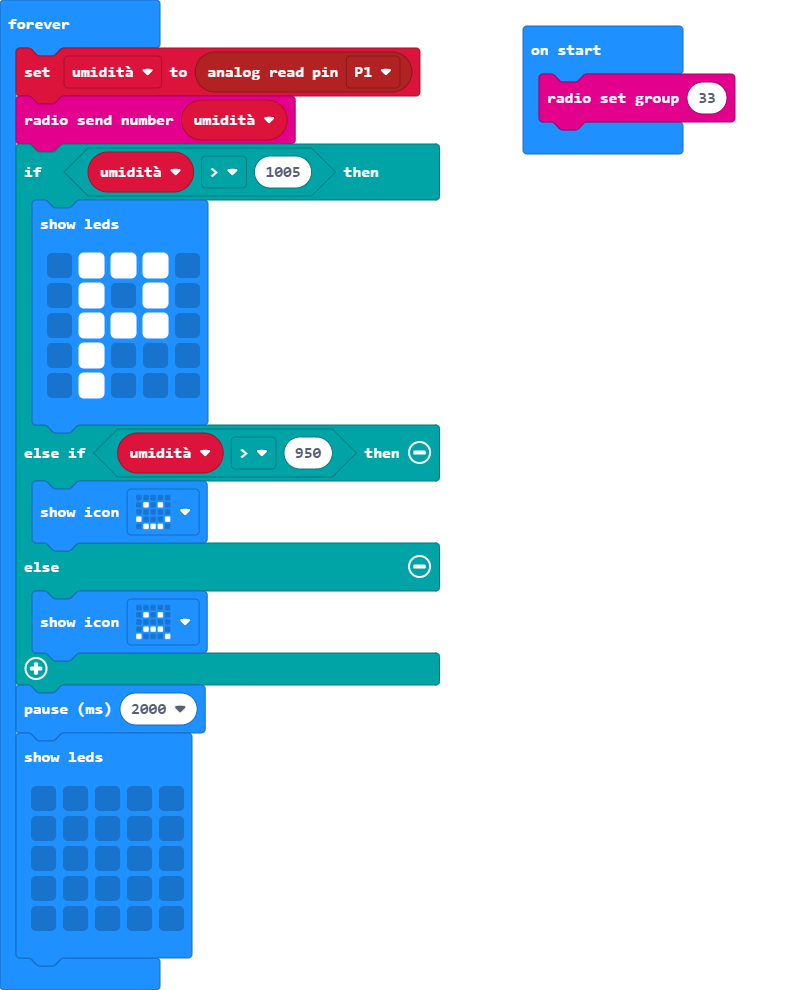
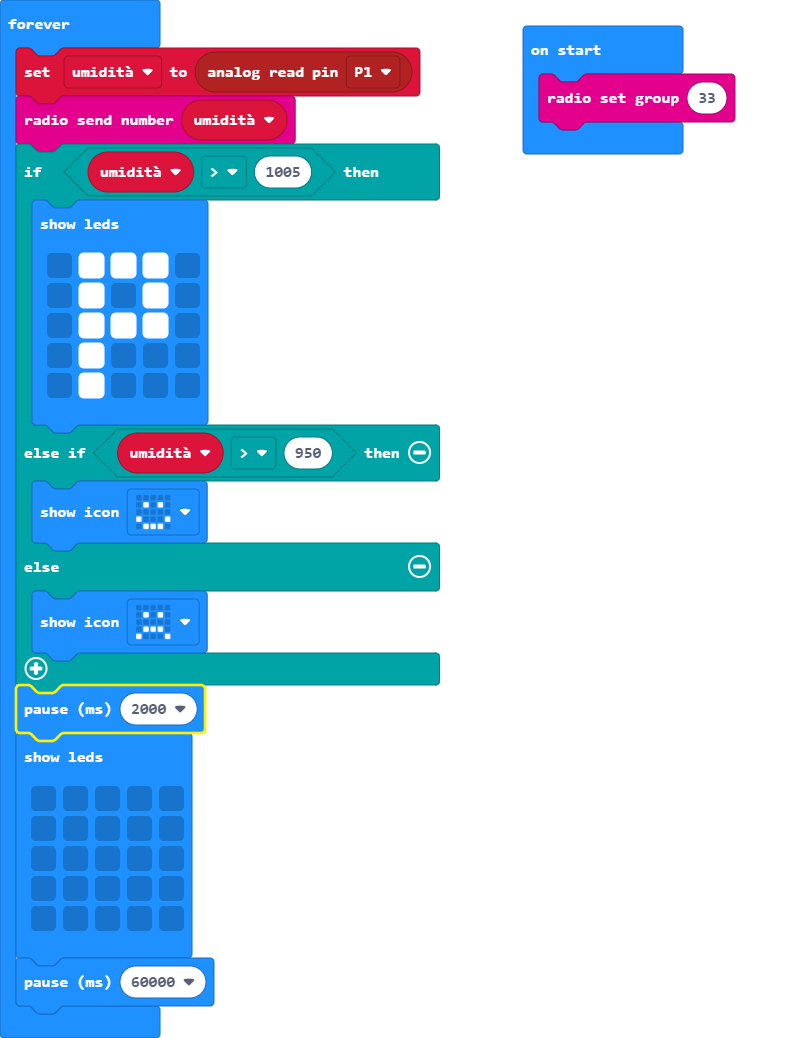
Update main.blocks, main.ts

Changed region(s): [[0.0, 0.0, 0.5794, 0.9697], [0.6709, 0.0303, 0.9454, 0.1818]]

diff --git a/main.ts b/main.ts
@@ -24,4 +24,5 @@ basic.forever(function () {
         . . . . .
         . . . . .
         `)
+    basic.pause(60000)
 })
